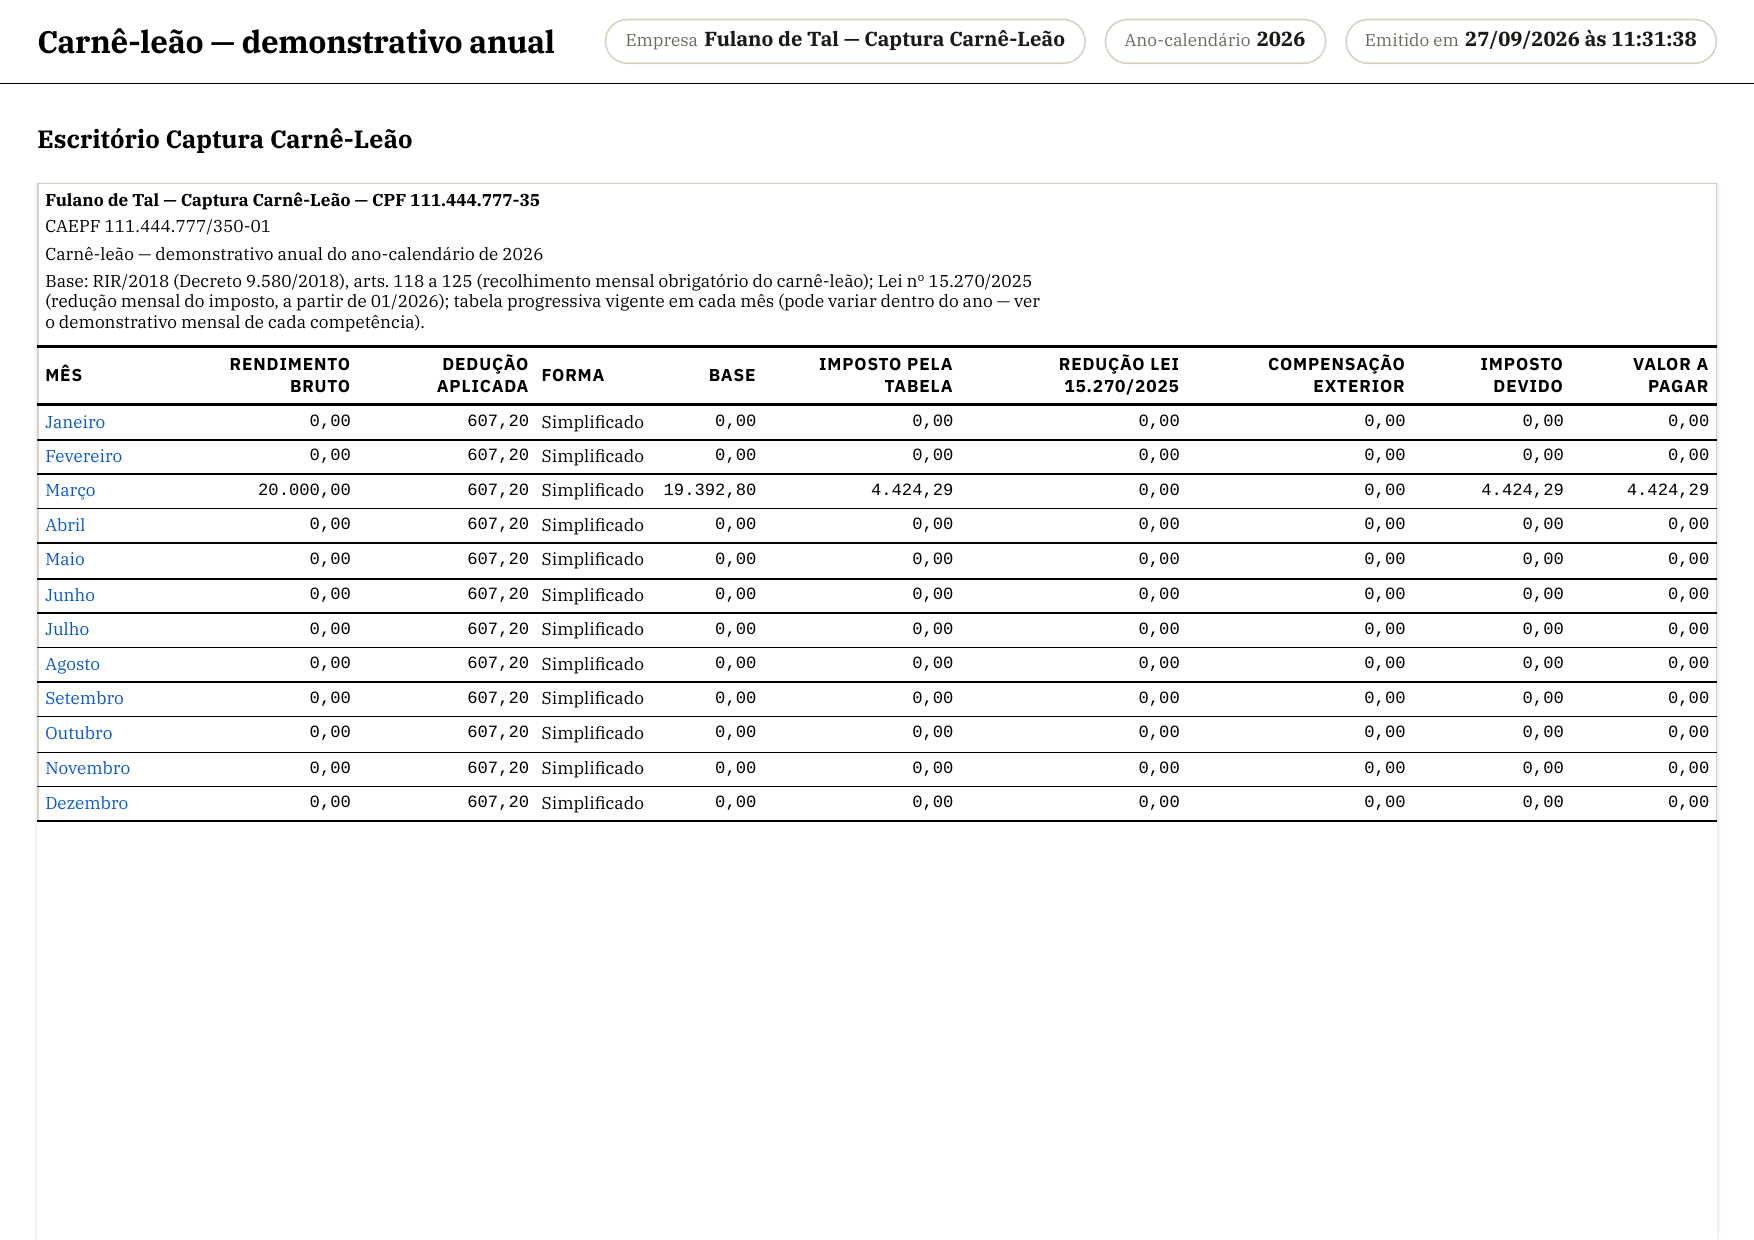
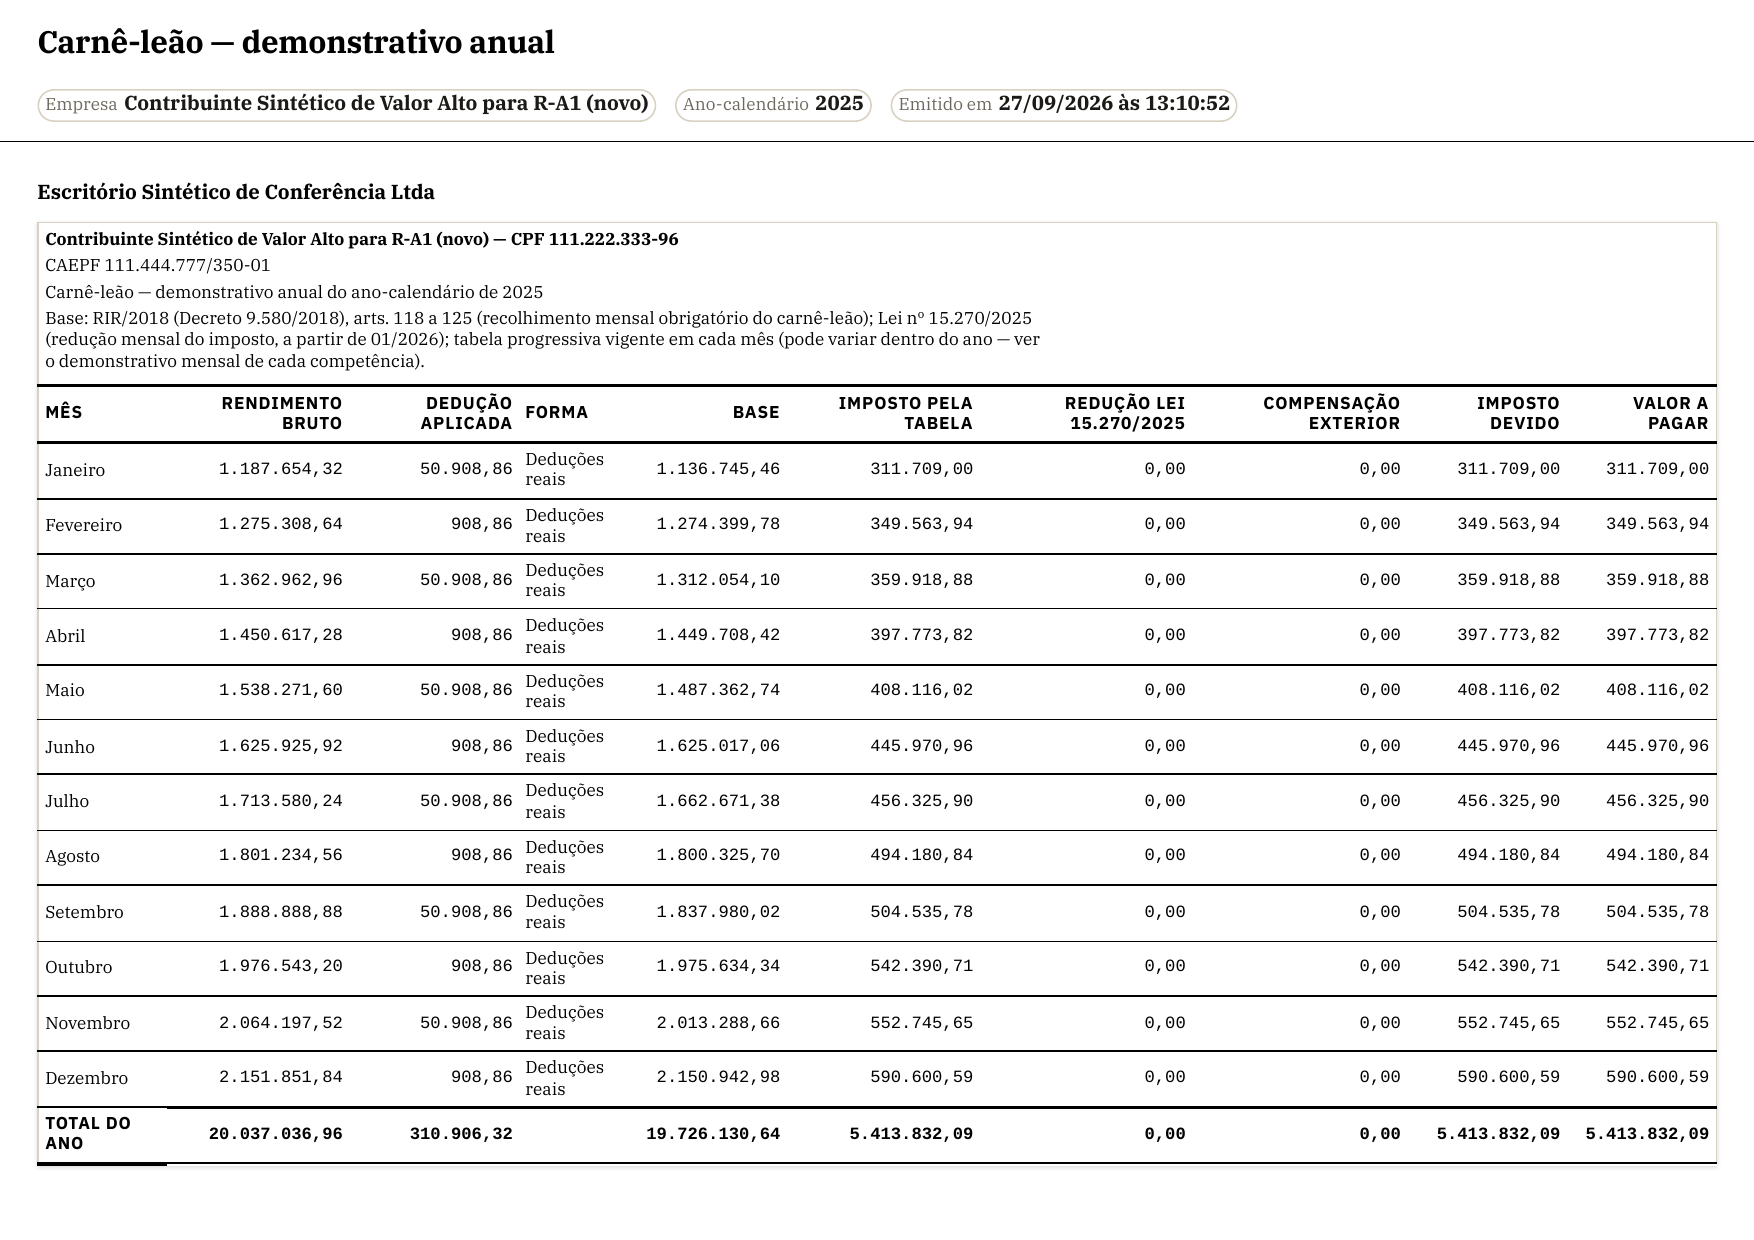
docs(dl046): recaptura o PDF anual em paisagem e fecha a verificação (a/b/c)
Recaptura docs/assets/telas/dl046/carne-leao-anual-paisagem-pdf.png com o
cenário oficial da reconferência (12 meses/valor alto, CAEPF de 2 linhas):
agora 1 folha só, "Dezembro" e "TOTAL DO ANO" visíveis juntos — a captura
anterior só mostrava a primeira folha de um PDF que, antes da correção (a),
saía em duas.

Preenche a seção "Verificação (a/b/c)" com os números finais: pytest
completo (3314 passed, 1 falha pré-existente aceita, 49 skipped, zero
xfail), pytest scripts/test_medir_identificacao_do_emitente.py (139
passed) e o instrumento standalone contra banco descartável (código de
saída 0, 13 telas PASSOU, zero FALHOU) — confirmando que a correção do
link de impressão (achado c) não regrediu nenhuma outra tela.

Claude-Session: https://claude.ai/code/session_01MiBr7AnoksLCpPoqVmx4Co

diff --git a/docs/planos/DL-046-livro-caixa-e-carne-leao.md b/docs/planos/DL-046-livro-caixa-e-carne-leao.md
@@ -2190,16 +2190,26 @@ e está declarado aqui de novo por transparência.
 - `ruff check .` — sem apontamentos.
 - `ruff format --check .` — 305 arquivos já formatados.
 - `python manage.py check` — sem apontamento.
-- `pytest` (suíte completa): ver hashes/saída no relato de entrega.
+- `pytest` (suíte completa, banco `dl046f2t`): **3314 passed, 1 failed
+  pré-existente (`test_versao_minima_python.py`, Python 3.13 vs. 3.14 —
+  já aceita nas rodadas anteriores), 49 skipped, ZERO xfail**.
 - `pytest scripts/test_medir_identificacao_do_emitente.py`, com
-  `DL_PYTHON_DO_SISTEMA`/`DL_CHROMIUM_EXECUTAVEL`: ver relato de
-  entrega.
-- `scripts/medir_identificacao_do_emitente.py` (instrumento
-  standalone, contra banco descartável): ver relato de entrega — roda
-  DEPOIS da correção (c) para confirmar que nenhuma tela regrediu.
+  `DL_PYTHON_DO_SISTEMA=/home/user/DataLedger/.venv/bin/python3` e
+  `DL_CHROMIUM_EXECUTAVEL=/opt/pw-browsers/chromium-1194/chrome-linux/
+  chrome`: **139 passed** (137 da rodada anterior + os 2 testes novos
+  desta correção, achados (a) e (c)).
+- `scripts/medir_identificacao_do_emitente.py` (instrumento standalone,
+  contra banco descartável PostgreSQL novo `rf46_instr`, semeado por
+  `semear_base_de_medicao.py`, DEPOIS da correção (c)): **código de
+  saída 0** — as 13 telas derivadas saem PASSOU, ZERO FALHOU — nenhuma
+  tela regrediu com a correção do link.
 - Nova captura: `docs/assets/telas/dl046/carne-leao-anual-paisagem-
-  pdf.png` recapturada com o cenário de 12 meses/valor alto — 1 folha
-  só, "Dezembro" e "TOTAL DO ANO" visíveis juntos.
+  pdf.png` recapturada com o cenário oficial da reconferência (12
+  meses de 2025, valores >= R$ 1.000.000,00, CAEPF de 2 linhas) — 1
+  folha só (`pdfinfo`: `Pages: 1`), "Dezembro" e "TOTAL DO ANO"
+  visíveis juntos na mesma folha, confirmado por `pdftotext` e
+  visualmente; margem 0mm (a única confirmada limpa neste Chromium —
+  achado cross-cutting registrado na seção anterior).
 
 ### Não testado / bloqueado nesta correção
 
